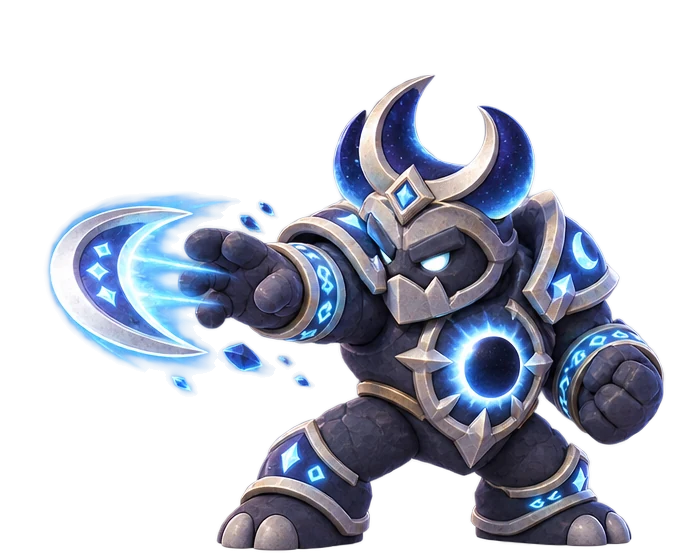
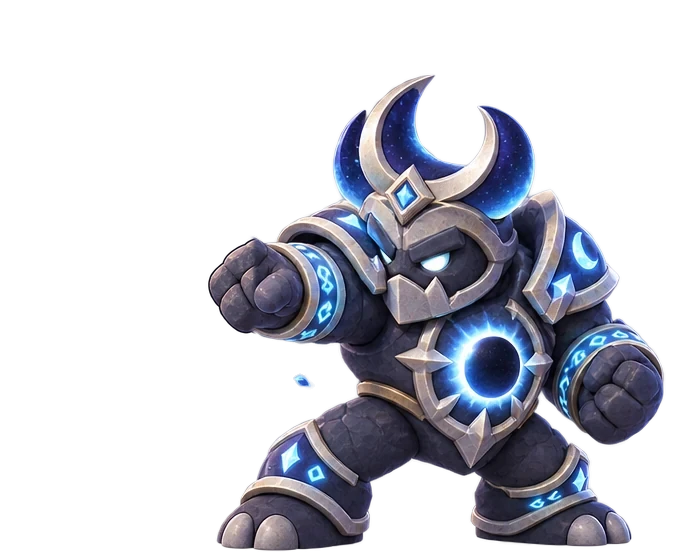
Boss Battle: each boss throws its own weapon (w1, w3-w10) + HP cards below the close button (admin 4585/4610)
- attack frames without the drawn projectile (watershed split + outline cores; hands repainted by masked GPT edits on
  w1/w5/w6/w9/w10, pixel fixes on w4/w7/w8); weapon sprites with their own glow; WEAPONS rows with motion + colour
- w8 fireball leaves the mouth (stream faded to a wisp at the jaws); w11 follows after the image quota reset
- .bb2-hud top = close button bottom (12 + 42 px) + 8 px

Changed region(s): [[0.06, 0.3339, 0.42, 0.6982]]

diff --git a/src/games/BossBattle.tsx b/src/games/BossBattle.tsx
@@ -3,7 +3,16 @@ import { use3dFallback } from '../components/use3dFallback'
 import { Task } from './Task'
 import type { MiniGameProps } from './types'
 import { burst, shake } from './fx'
+import w1Weapon from '../assets/games/bosses/w1/weapon.webp'
+import w4Weapon from '../assets/games/bosses/w4/weapon.webp'
+import w5Weapon from '../assets/games/bosses/w5/weapon.webp'
+import w6Weapon from '../assets/games/bosses/w6/weapon.webp'
+import w7Weapon from '../assets/games/bosses/w7/weapon.webp'
+import w8Weapon from '../assets/games/bosses/w8/weapon.webp'
+import w9Weapon from '../assets/games/bosses/w9/weapon.webp'
+import w10Weapon from '../assets/games/bosses/w10/weapon.webp'
 import w2Weapon from '../assets/games/bosses/w2/weapon.webp'
+import w3Weapon from '../assets/games/bosses/w3/weapon.webp'
 import { BossFx, type Weapon } from './bossFx'
 import { sfx, bossVictory } from '../services/audio'
 import { GameTitle } from '../components/GameTitle'
@@ -141,8 +150,26 @@ const GOLEM_IMG: BossImg = { w: 600, h: 640, top: 0.02, bot: 0.994, foot: 0.55, 
 // (0..1), w = sprite width / frame width, anchor = that centre inside the sprite, motion + colour for the flight and the burst
 type BossWeapon = { src: string; at: [number, number]; w: number; anchor: [number, number]; motion: Weapon['motion']; col: string }
 const WEAPONS: Record<number, BossWeapon> = {
+  // w1 thorny seed pod (sides completed by a masked GPT edit: the sheet cell had cut them), spins to the hero
+  0: { src: w1Weapon, at: [0.165, 0.47], w: 0.235, anchor: [0.4909, 0.5071], motion: 'spin', col: '#d36bff' },
   // w2 amethyst shard (admin 4549 pass): starts with its tail at the fingertips (the sheet drew it a little in front of the hand)
   1: { src: w2Weapon, at: [0.19, 0.4956], w: 0.2457, anchor: [0.4989, 0.5158], motion: 'straight', col: '#b07cff' },
+  // w3 angry book (core outline: its flame trail is as opaque as the book), tumbles to the hero
+  2: { src: w3Weapon, at: [0.24, 0.49], w: 0.2229, anchor: [0.4981, 0.5107], motion: 'tumble', col: '#ffc94a' },
+  // w4 green potion flask (fingertip tint pulled back to the hand colour), tumbles to the hero
+  3: { src: w4Weapon, at: [0.2, 0.49], w: 0.2086, anchor: [0.5162, 0.5084], motion: 'tumble', col: '#58e04a' },
+  // w5 glowing spore mushroom (pointing hand repainted by a masked GPT edit), spins to the hero
+  4: { src: w5Weapon, at: [0.2, 0.5], w: 0.17, anchor: [0.5253, 0.4488], motion: 'spin', col: '#ff5fa2' },
+  // w6 crescent moon blade (fist repainted by a masked GPT edit), spins to the hero
+  5: { src: w6Weapon, at: [0.215, 0.49], w: 0.2643, anchor: [0.4583, 0.4922], motion: 'spin', col: '#5fb4ff' },
+  // w7 faceted ice chunk (palm cut edge rounded, stray shard removed), tumbles to the hero
+  6: { src: w7Weapon, at: [0.24, 0.5], w: 0.2471, anchor: [0.5389, 0.4964], motion: 'tumble', col: '#7fd8ff' },
+  // w8 fireball breathed from the mouth (stream tip faded to a wisp at the jaws), flies straight
+  7: { src: w8Weapon, at: [0.35, 0.53], w: 0.1943, anchor: [0.4911, 0.4996], motion: 'straight', col: '#ff8a1e' },
+  // w9 rune boulder (hand repainted by a masked GPT edit), tumbles to the hero
+  8: { src: w9Weapon, at: [0.215, 0.43], w: 0.2457, anchor: [0.5093, 0.4899], motion: 'tumble', col: '#4fe6d8' },
+  // w10 arcane orb (pointing hand repainted by a masked GPT edit), flies straight
+  9: { src: w10Weapon, at: [0.2, 0.525], w: 0.2229, anchor: [0.4964, 0.4978], motion: 'straight', col: '#b45cff' },
 }
 type Boss = { name: string; frames: Record<GolemState, string>; img: BossImg; gate?: string }   // plate: the world's own arena (admin 4565)
 const BOSSES: Record<number, Boss> = {

diff --git a/src/games/bossbattle.css b/src/games/bossbattle.css
@@ -66,7 +66,7 @@
   30% { transform: translate(-50%, -70%) scale(1) } 75% { opacity: 1 } 100% { transform: translate(-50%, -160%) scale(.95); opacity: 0 } }
 
 /* HP panels under the ribbon */
-.bb2-hud { top: calc(50px + var(--safe-top, 0px));   /* was 10.8cqh under the game-name ribbon (admin 4602: ribbon is now an intro only) */
+.bb2-hud { top: calc(62px + var(--safe-top, 0px));   /* below the stage close button (12 + 42 px) + 8 px gap (admin 4610); was 10.8cqh under the old ribbon */
   display: grid; grid-template-columns: 1fr 1fr; gap: 3.5cqw; }
 .bb2-hp { padding: 6px 10px 8px; text-align: center; border-radius: 20px; }
 .bb2-hp b { display: block; font-size: clamp(14px, 4.2cqw, 18px); font-weight: 900; line-height: 1.2; color: #2a2550; }
